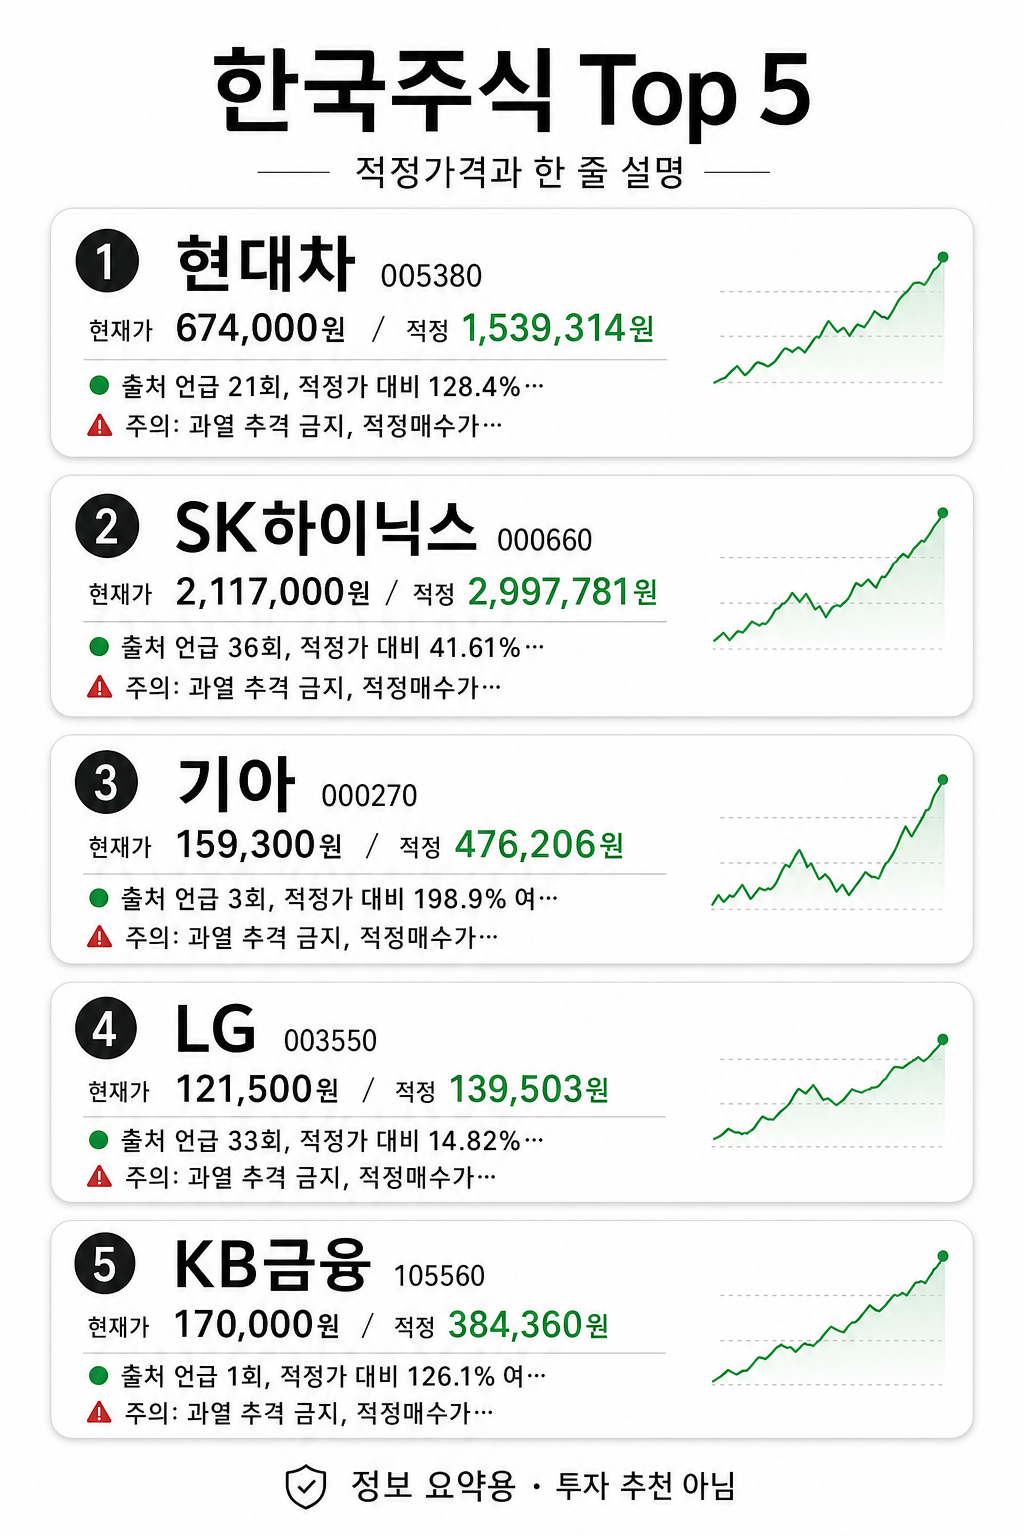
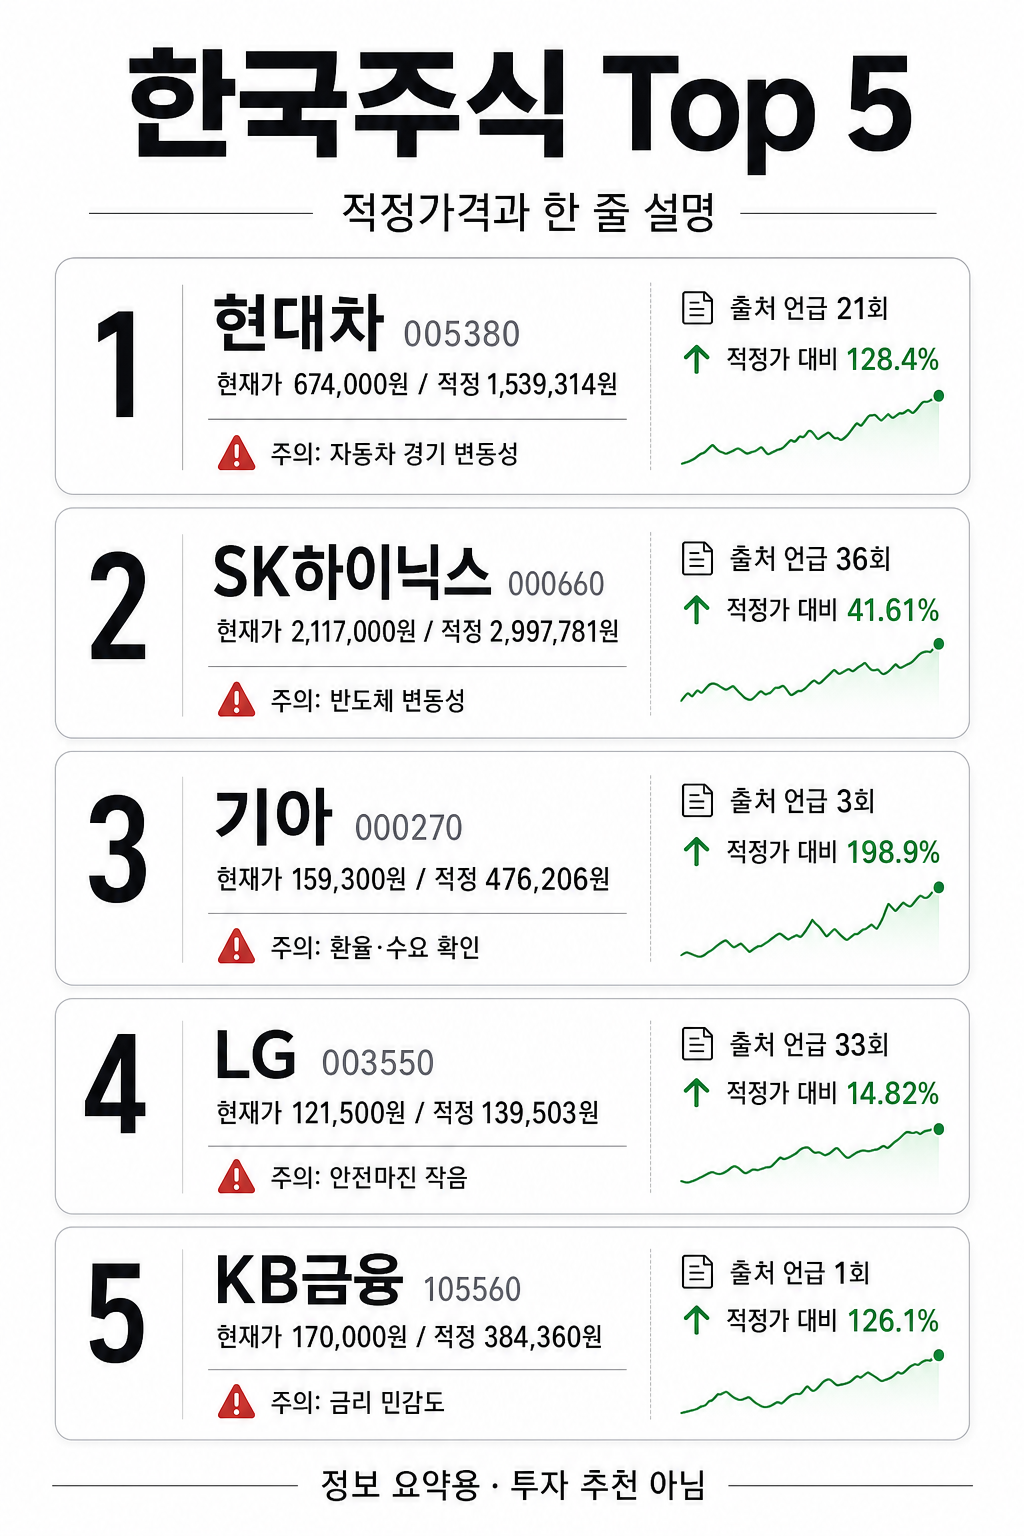
Restore both ImageGen2 stock cardnews assets

Changed region(s): [[0.0625, 0.0312, 0.9688, 1.0], [0.6562, 0.2812, 0.8438, 0.3125], [0.6562, 0.4375, 0.8125, 0.4688]]

diff --git a/public/index.html b/public/index.html
@@ -34,11 +34,11 @@ html{scroll-behavior:smooth;overflow-x: hidden} body{overflow-x: hidden;font-fam
 @media (max-width:760px){header{padding-top:30px} .top-rec-section,.news-section,.method-section{padding:16px!important;border-radius:18px!important} .ai-rec-grid,.valuation-grid,.youtuber-grid,.stock-rank-grid{grid-template-columns:1fr!important} .news-column h3{position:static} .ai-price-grid{grid-template-columns:1fr}}
 </style></head>
 <body>
-<header><h1>한국·미국 주식 한눈에 보기</h1><div class="subtitle">매시간 국내주식과 미국주식의 관심 종목, 출처 발언, 재무·차트 숫자, 최신 뉴스를 새로 정리합니다. / 생성: 2026-06-05 13:07</div><div class="kpis"><div class="kpi">수집 소스 16개</div><div class="kpi">소스 로그 672개</div><div class="kpi">추천/관심 종목 43개</div><div class="kpi">유튜브 자막 154/227개</div><div class="kpi">화면 OCR 44개</div><div class="kpi">뉴스 443건</div></div></header>
+<header><h1>한국·미국 주식 한눈에 보기</h1><div class="subtitle">매시간 국내주식과 미국주식의 관심 종목, 출처 발언, 재무·차트 숫자, 최신 뉴스를 새로 정리합니다. / 생성: 2026-06-05 13:32</div><div class="kpis"><div class="kpi">수집 소스 16개</div><div class="kpi">소스 로그 672개</div><div class="kpi">추천/관심 종목 43개</div><div class="kpi">유튜브 자막 154/227개</div><div class="kpi">화면 OCR 44개</div><div class="kpi">뉴스 443건</div></div></header>
 <nav class="tabs"><a href="#top-recommendations">추천종목</a><a href="#news">뉴스</a><a href="#method">자료 확인</a><a href="#domestic">국내</a><a href="#global">미국</a></nav>
 <main><div class="notice">이 페이지는 여러 출처에서 나온 말과 공개 재무 데이터를 모아 보여주는 참고용 화면입니다. 점수와 가격대는 자동 계산한 기준선일 뿐, 투자 조언이나 수익 보장이 아닙니다. 실제 매매 전에는 현재가, 공시, 실적, 수급을 다시 확인해 주세요.</div><section id="top-recommendations" class="top-rec-section"><div class="top-rec-head"><span>먼저 볼 것</span><h2>AI 추천종목 Top5</h2><p>국내와 미국을 나눠서 보여줍니다. 많이 언급된 종목, 재무 숫자, 차트 위치를 함께 본 관심 목록입니다. 매수 지시는 아닙니다.</p></div><section class="imagegen2-section" aria-label="이미지젠2 종목 설명 카드뉴스">
       <div class="imagegen2-head"><span>ImageGen2 카드뉴스</span><h2>그림으로 먼저 보는 국내·미국 Top5</h2><p>종목 설명을 한 장씩 빠르게 훑어보는 카드뉴스입니다. 세부 수치와 원문 근거는 아래 추천 카드에서 다시 확인해 주세요.</p></div>
-      <div class="imagegen2-grid"><figure><img src="assets/imagegen2/korea-top5-cardnews.png" alt="한국주식 Top5 이미지젠2 카드뉴스"><figcaption>한국주식 5개 요약</figcaption></figure></div>
+      <div class="imagegen2-grid"><figure><img src="assets/imagegen2/korea-top5-cardnews.png" alt="한국주식 Top5 이미지젠2 카드뉴스"><figcaption>한국주식 5개 요약</figcaption></figure><figure><img src="assets/imagegen2/us-top5-cardnews.png" alt="미국주식 Top5 이미지젠2 카드뉴스"><figcaption>미국주식 5개 요약</figcaption></figure></div>
     </section><section class="ai-top-section"><h2>국내주식 AI 추천 Top5</h2><p class="section-note">현재가가 계산상 적정가격 이하인 종목만 추천 후보로 보여줍니다. 조건을 통과한 종목이 부족하면 5개보다 적게 표시됩니다. “알림 걸어둘 가격”은 다시 볼 만한 가격, “비싸 보이기 시작하는 가격”은 과열을 의심할 가격입니다. 매수·매도 지시는 아닙니다.</p><div class="ai-rec-grid">
     <article class="ai-rec-card">
       <div class="ai-rank">추천 1</div>